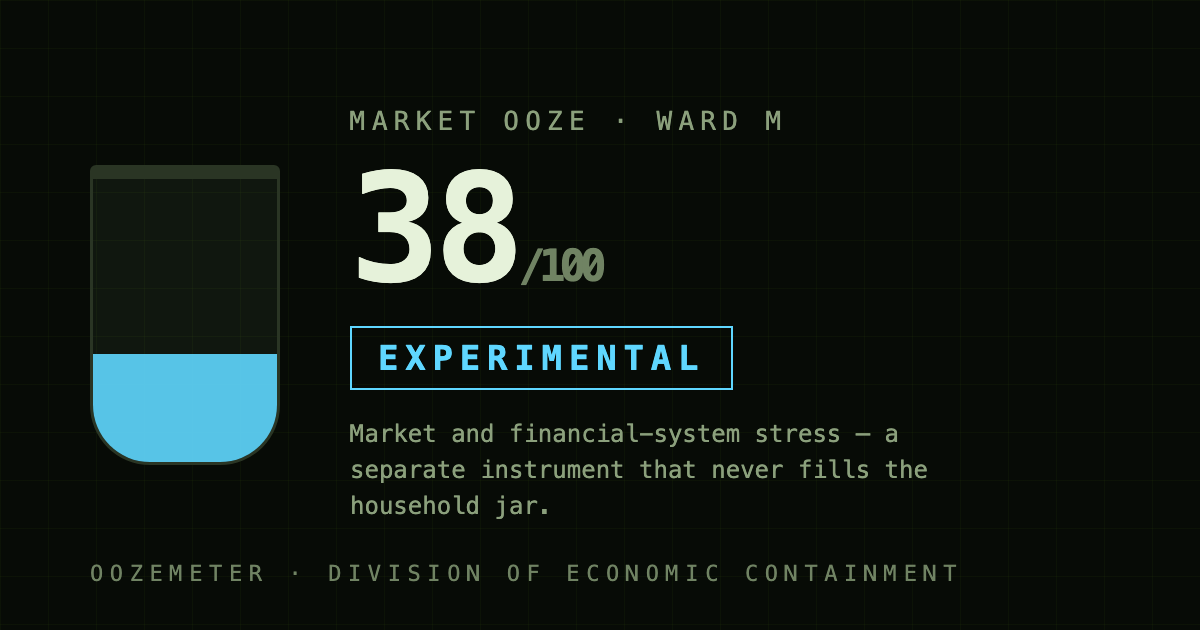
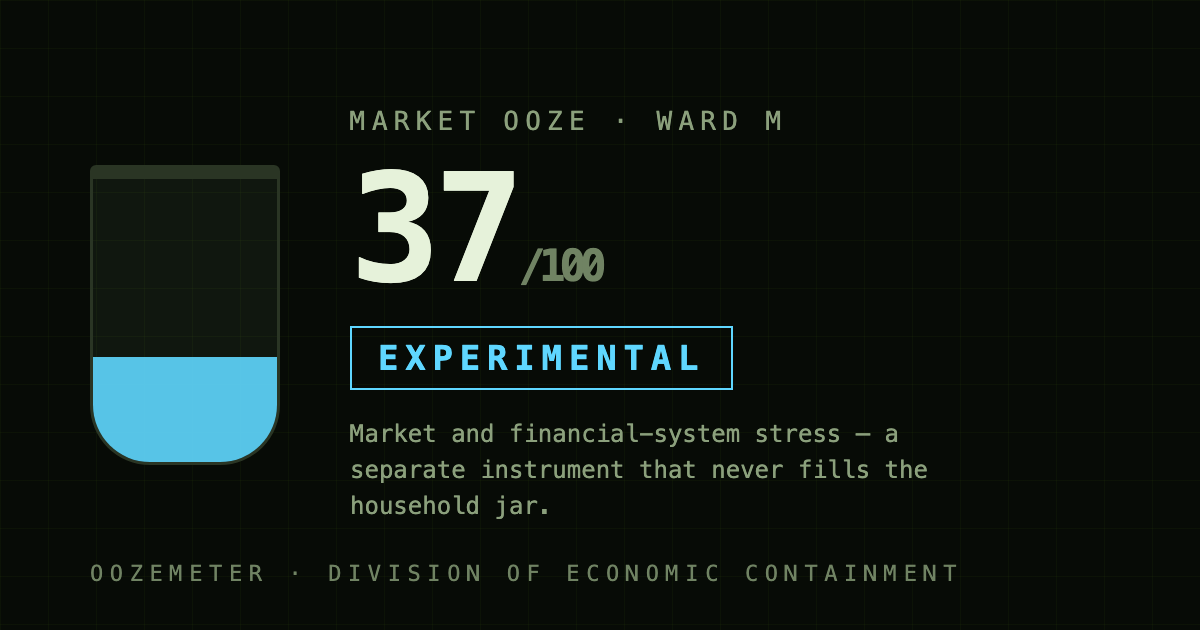
Ward M refresh 2026-08-01: full-July means, ward 37 (breadth eases 56→50), Sector Watch 6/4/1

Changed region(s): [[0.37, 0.2714, 0.4317, 0.4524], [0.0925, 0.5429, 0.2158, 0.573]]

diff --git a/data/market.js b/data/market.js
@@ -1,1 +1,1 @@
-window.MARKET_DATA={"generated":"2026-07-30T21:46:46.334Z","score":38,"raw":32.17,"calibration":{"a":1.4025,"b":-7.0116,"rule":"ward calm 2007-present = 10, ward GFC peak = 90","episodes":[{"name":"GFC peak","month":"2008-11","score":90},{"name":"Euro stress","month":"2011-09","score":61},{"name":"COVID","month":"2020-03","score":71},{"name":"2022 tightening","month":"2022-09","score":76},{"name":"Bank stress","month":"2023-02","score":60},{"name":"Calmest","month":"2017-09","score":10}]},"calibrationStatus":"calibrated-to-own-history; anchors provisional","note":"Ward M measures market/financial-system stress. It is not household pressure and does not affect the Ooze Score.","sensors":{"rates":{"name":"Rates","emoji":"🏛","value":"0.72pp","stress":27,"delta":-1,"asOf":"2026-07","read":"An inverted curve — short rates above long — has preceded most modern recessions.","source":{"publisher":"Federal Reserve Board yield inputs via FRED","transport":"FRED","seriesId":"T10Y3M","metric":"10-year minus 3-month Treasury spread, monthly mean (pp)","url":"https://fred.stlouisfed.org/series/T10Y3M"}},"volatility":{"name":"Volatility","emoji":"🌪","value":"17.1","stress":24,"delta":-3,"asOf":"2026-07","read":"The option market's 30-day implied-volatility gauge. Spikes show repricing; low readings alone do not prove complacency.","source":{"publisher":"Cboe","transport":"FRED","seriesId":"VIXCLS","metric":"VIX, monthly mean of daily closes","url":"https://fred.stlouisfed.org/series/VIXCLS"}},"credit":{"name":"Credit & Funding","emoji":"🏦","value":"-0.54","stress":10,"delta":-2,"asOf":"2026-07","read":"105 indicators of lending, funding, and risk appetite in one Fed index. The bridge sensor for methodology v3.","source":{"publisher":"Federal Reserve Bank of Chicago","transport":"FRED","seriesId":"NFCI","metric":"National Financial Conditions Index, monthly mean","url":"https://fred.stlouisfed.org/series/NFCI"}},"energy":{"name":"Energy","emoji":"🛢","value":"$80","stress":49,"delta":-7,"asOf":"2026-07","read":"Expensive oil squeezes everything that moves. The upstream cousin of the gas-price line.","source":{"publisher":"U.S. Energy Information Administration","transport":"FRED","seriesId":"DCOILWTICO","metric":"WTI crude, monthly mean $/bbl","url":"https://fred.stlouisfed.org/series/DCOILWTICO"}},"dollar":{"name":"Dollar","emoji":"💵","value":"+0.5%","stress":27,"delta":3,"asOf":"2026-07","read":"Rapid broad-dollar appreciation can accompany global funding stress, but is not itself a funding-stress measure.","source":{"publisher":"Federal Reserve Board","transport":"FRED","seriesId":"DTWEXBGS","metric":"Broad dollar index, year-over-year %","url":"https://fred.stlouisfed.org/series/DTWEXBGS"}},"breadth":{"name":"Breadth","emoji":"📊","value":"5/11 steady","stress":56,"delta":0,"asOf":"2026-07-30","read":"How many of the eleven Sector Watch tickers are weakening. One weakening ticker proxy moves this; a broad selloff maxes it.","source":{"publisher":"Sector Watch manual proxy panel","transport":"derived from disclosed quote.close source","seriesId":"SECTOR-BREADTH","metric":"Weakness share: half-weight softening + full-weight stressed over 11 tickers","url":"market.html"}}}};
+window.MARKET_DATA={"generated":"2026-08-01T23:03:42.763Z","score":37,"raw":31.17,"calibration":{"a":1.4025,"b":-7.0116,"rule":"ward calm 2007-present = 10, ward GFC peak = 90","episodes":[{"name":"GFC peak","month":"2008-11","score":90},{"name":"Euro stress","month":"2011-09","score":61},{"name":"COVID","month":"2020-03","score":71},{"name":"2022 tightening","month":"2022-09","score":76},{"name":"Bank stress","month":"2023-02","score":60},{"name":"Calmest","month":"2017-09","score":10}]},"calibrationStatus":"calibrated-to-own-history; anchors provisional","note":"Ward M measures market/financial-system stress. It is not household pressure and does not affect the Ooze Score.","sensors":{"rates":{"name":"Rates","emoji":"🏛","value":"0.73pp","stress":27,"delta":-1,"asOf":"2026-07","read":"An inverted curve — short rates above long — has preceded most modern recessions.","source":{"publisher":"Federal Reserve Board yield inputs via FRED","transport":"FRED","seriesId":"T10Y3M","metric":"10-year minus 3-month Treasury spread, monthly mean (pp)","url":"https://fred.stlouisfed.org/series/T10Y3M"}},"volatility":{"name":"Volatility","emoji":"🌪","value":"17.1","stress":24,"delta":-3,"asOf":"2026-07","read":"The option market's 30-day implied-volatility gauge. Spikes show repricing; low readings alone do not prove complacency.","source":{"publisher":"Cboe","transport":"FRED","seriesId":"VIXCLS","metric":"VIX, monthly mean of daily closes","url":"https://fred.stlouisfed.org/series/VIXCLS"}},"credit":{"name":"Credit & Funding","emoji":"🏦","value":"-0.54","stress":10,"delta":-2,"asOf":"2026-07","read":"105 indicators of lending, funding, and risk appetite in one Fed index. The bridge sensor for methodology v3.","source":{"publisher":"Federal Reserve Bank of Chicago","transport":"FRED","seriesId":"NFCI","metric":"National Financial Conditions Index, monthly mean","url":"https://fred.stlouisfed.org/series/NFCI"}},"energy":{"name":"Energy","emoji":"🛢","value":"$80","stress":49,"delta":-7,"asOf":"2026-07","read":"Expensive oil squeezes everything that moves. The upstream cousin of the gas-price line.","source":{"publisher":"U.S. Energy Information Administration","transport":"FRED","seriesId":"DCOILWTICO","metric":"WTI crude, monthly mean $/bbl","url":"https://fred.stlouisfed.org/series/DCOILWTICO"}},"dollar":{"name":"Dollar","emoji":"💵","value":"+0.5%","stress":27,"delta":3,"asOf":"2026-07","read":"Rapid broad-dollar appreciation can accompany global funding stress, but is not itself a funding-stress measure.","source":{"publisher":"Federal Reserve Board","transport":"FRED","seriesId":"DTWEXBGS","metric":"Broad dollar index, year-over-year %","url":"https://fred.stlouisfed.org/series/DTWEXBGS"}},"breadth":{"name":"Breadth","emoji":"📊","value":"6/11 steady","stress":50,"delta":0,"asOf":"2026-07-31","read":"How many of the eleven Sector Watch tickers are weakening. One weakening ticker proxy moves this; a broad selloff maxes it.","source":{"publisher":"Sector Watch manual proxy panel","transport":"derived from disclosed quote.close source","seriesId":"SECTOR-BREADTH","metric":"Weakness share: half-weight softening + full-weight stressed over 11 tickers","url":"market.html"}}}};

diff --git a/data/sectors.js b/data/sectors.js
@@ -1,1 +1,1 @@
-window.SECTOR_DATA={"generated":"2026-07-30T21:46:41.687Z","cadence":"manual; weekly schedule proposed but disabled pending quote-rights clearance","overall":"SOFTENING","breadth":{"steady":5,"softening":5,"stressed":1,"total":11},"source":{"transport":"Yahoo Finance chart endpoint","endpoint":"https://query1.finance.yahoo.com/v8/finance/chart/{ticker}","field":"quote.close","returnBasis":"price return; distributions not reinvested","windows":"22- and 64-session intervals requiring 23 and 65 valid closes","timezone":"America/New_York from response metadata","corporateActions":"provider close-field behavior; split adjustment remains a source risk","rightsStatus":"unresolved; scheduled publishing disabled pending licensed or explicitly permitted quote source"},"note":"Manual report of derived ETF price-return states. This 11-ticker proxy panel is not direct economic activity or independent sector breadth. No price history is published, but quote rights remain unresolved. Not part of the household score.","stateRule":"22-session change: >= -2% steady; >= -7% and < -2% softening; < -7% stressed","groups":[{"name":"Market Indexes","rows":[{"sym":"SPY","role":"U.S. large-cap equities","state":"steady","dot":"🟢","m1":0.1,"m3":4.2,"asOf":"2026-07-30"},{"sym":"QQQ","role":"Nasdaq-100 non-financial equities","state":"softening","dot":"🟡","m1":-5.6,"m3":4,"asOf":"2026-07-30"},{"sym":"DIA","role":"Thirty price-weighted blue chips","state":"steady","dot":"🟢","m1":0,"m3":6.1,"asOf":"2026-07-30"},{"sym":"IWM","role":"U.S. small-cap equities","state":"softening","dot":"🟡","m1":-2.1,"m3":6.8,"asOf":"2026-07-30"}]},{"name":"Financial & Cyclical Equities","rows":[{"sym":"XLF","role":"S&P 500 financial equities","state":"steady","dot":"🟢","m1":6.1,"m3":9.9,"asOf":"2026-07-30"},{"sym":"XLI","role":"S&P 500 industrial equities","state":"softening","dot":"🟡","m1":-2.4,"m3":4.3,"asOf":"2026-07-30"},{"sym":"IYT","role":"Listed transportation equities","state":"softening","dot":"🟡","m1":-3.1,"m3":4.9,"asOf":"2026-07-30"}]},{"name":"Consumer Equities","rows":[{"sym":"XLY","role":"S&P 500 consumer-discretionary equities","state":"softening","dot":"🟡","m1":-4,"m3":-3.9,"asOf":"2026-07-30"},{"sym":"XLP","role":"S&P 500 consumer-staples equities","state":"steady","dot":"🟢","m1":1.3,"m3":2.9,"asOf":"2026-07-30"}]},{"name":"Industry","rows":[{"sym":"SMH","role":"U.S.-listed semiconductor equities","state":"stressed","dot":"🔴","m1":-14.7,"m3":9.7,"asOf":"2026-07-30"}]},{"name":"Defensive Equities","rows":[{"sym":"XLV","role":"S&P 500 health-care equities","state":"steady","dot":"🟢","m1":1.7,"m3":13.7,"asOf":"2026-07-30"}]}],"oozebot":{"byline":"OOZEBOT","cadence":"manual","asOf":"2026-07-30","paragraph":"Sector Watch is SOFTENING: 5 of 11 tickers are steady, 5 softening, and 1 stressed. SMH has the weakest 22-session price change at −14.7%; XLF is strongest at +6.1%. These measured states use the published 22-session thresholds and do not affect the household Ooze Score."}};
+window.SECTOR_DATA={"generated":"2026-08-01T23:03:36.598Z","cadence":"manual; weekly schedule proposed but disabled pending quote-rights clearance","overall":"SOFTENING","breadth":{"steady":6,"softening":4,"stressed":1,"total":11},"source":{"transport":"Yahoo Finance chart endpoint","endpoint":"https://query1.finance.yahoo.com/v8/finance/chart/{ticker}","field":"quote.close","returnBasis":"price return; distributions not reinvested","windows":"22- and 64-session intervals requiring 23 and 65 valid closes","timezone":"America/New_York from response metadata","corporateActions":"provider close-field behavior; split adjustment remains a source risk","rightsStatus":"unresolved; scheduled publishing disabled pending licensed or explicitly permitted quote source"},"note":"Manual report of derived ETF price-return states. This 11-ticker proxy panel is not direct economic activity or independent sector breadth. No price history is published, but quote rights remain unresolved. Not part of the household score.","stateRule":"22-session change: >= -2% steady; >= -7% and < -2% softening; < -7% stressed","groups":[{"name":"Market Indexes","rows":[{"sym":"SPY","role":"U.S. large-cap equities","state":"steady","dot":"🟢","m1":0,"m3":5,"asOf":"2026-07-31"},{"sym":"QQQ","role":"Nasdaq-100 non-financial equities","state":"softening","dot":"🟡","m1":-6.6,"m3":4,"asOf":"2026-07-31"},{"sym":"DIA","role":"Thirty price-weighted blue chips","state":"steady","dot":"🟢","m1":0.4,"m3":7.3,"asOf":"2026-07-31"},{"sym":"IWM","role":"U.S. small-cap equities","state":"softening","dot":"🟡","m1":-3.1,"m3":7,"asOf":"2026-07-31"}]},{"name":"Financial & Cyclical Equities","rows":[{"sym":"XLF","role":"S&P 500 financial equities","state":"steady","dot":"🟢","m1":6.2,"m3":9.7,"asOf":"2026-07-31"},{"sym":"XLI","role":"S&P 500 industrial equities","state":"softening","dot":"🟡","m1":-2.9,"m3":5.8,"asOf":"2026-07-31"},{"sym":"IYT","role":"Listed transportation equities","state":"softening","dot":"🟡","m1":-2.1,"m3":6.1,"asOf":"2026-07-31"}]},{"name":"Consumer Equities","rows":[{"sym":"XLY","role":"S&P 500 consumer-discretionary equities","state":"steady","dot":"🟢","m1":-1,"m3":-0.6,"asOf":"2026-07-31"},{"sym":"XLP","role":"S&P 500 consumer-staples equities","state":"steady","dot":"🟢","m1":2.4,"m3":2.6,"asOf":"2026-07-31"}]},{"name":"Industry","rows":[{"sym":"SMH","role":"U.S.-listed semiconductor equities","state":"stressed","dot":"🔴","m1":-17.6,"m3":8.2,"asOf":"2026-07-31"}]},{"name":"Defensive Equities","rows":[{"sym":"XLV","role":"S&P 500 health-care equities","state":"steady","dot":"🟢","m1":2.5,"m3":13.8,"asOf":"2026-07-31"}]}],"oozebot":{"byline":"OOZEBOT","cadence":"manual","asOf":"2026-07-31","paragraph":"Sector Watch is SOFTENING: 6 of 11 tickers are steady, 4 softening, and 1 stressed. SMH has the weakest 22-session price change at −17.6%; XLF is strongest at +6.2%. These measured states use the published 22-session thresholds and do not affect the household Ooze Score."}};

diff --git a/market.html b/market.html
@@ -36,7 +36,7 @@
       <div class="ward-jarbox"><div class="jar mini" id="mktJar" role="img" aria-label="Market containment jar"></div></div>
       <div class="ward-readout">
         <div class="kicker" id="mktKicker">Market Stress — Provisional</div>
-        <div class="big-score" style="font-size:clamp(2.6rem,7vw,3.8rem)"><span id="mktScore">38</span><small>/100</small></div>
+        <div class="big-score" style="font-size:clamp(2.6rem,7vw,3.8rem)"><span id="mktScore">37</span><small>/100</small></div>
         <div class="status-row" style="justify-content:flex-start"><div class="status-chip" id="mktBand">STICKY</div></div>
         <div class="verdict" id="mktCompare" style="max-width:44ch"></div>
         <div class="ward-note">⚠ Experimental instrument · <b>does not fill the household jar</b></div>
